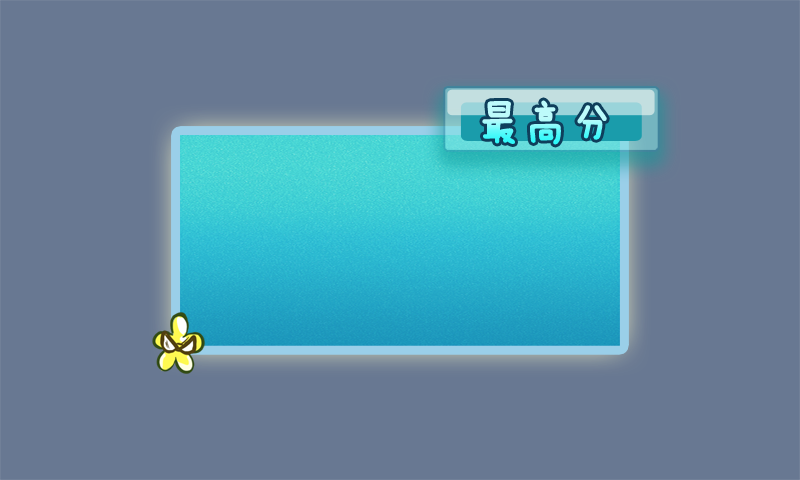
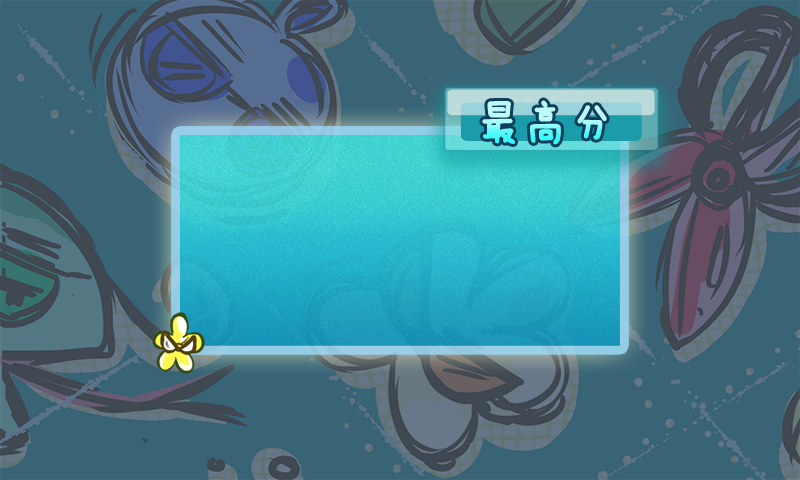
代码优化

diff --git a/src/com/example/newsnake/StartpageActivity.java b/src/com/example/newsnake/StartpageActivity.java
@@ -6,6 +6,7 @@ import org.andengine.engine.options.ScreenOrientation;
 import org.andengine.engine.options.resolutionpolicy.RatioResolutionPolicy;
 import org.andengine.entity.scene.Scene;
 import org.andengine.entity.scene.background.RepeatingSpriteBackground;
+import org.andengine.entity.scene.background.SpriteBackground;
 import org.andengine.entity.sprite.ButtonSprite;
 import org.andengine.entity.sprite.ButtonSprite.OnClickListener;
 import org.andengine.entity.sprite.Sprite;
@@ -14,6 +15,7 @@ import org.andengine.opengl.texture.TextureOptions;
 import org.andengine.opengl.texture.atlas.bitmap.BitmapTextureAtlas;
 import org.andengine.opengl.texture.atlas.bitmap.BitmapTextureAtlasTextureRegionFactory;
 import org.andengine.opengl.texture.atlas.bitmap.source.AssetBitmapTextureAtlasSource;
+import org.andengine.opengl.texture.region.TextureRegion;
 import org.andengine.opengl.texture.region.TiledTextureRegion;
 import org.andengine.ui.activity.SimpleBaseGameActivity;
 
@@ -23,14 +25,13 @@ import android.os.Bundle;
 import android.view.Menu;
 
 public class StartpageActivity extends SimpleBaseGameActivity {
-	private RepeatingSpriteBackground mBackground;
 	
 	
 	private BitmapTextureAtlas mTextureAtlas;
 	private BitmapTextureAtlas mStartAtlas;
-	private BitmapTextureAtlas mTopAtlas;
-	private BitmapTextureAtlas mInformationAtlas;
-	private BitmapTextureAtlas mSnakeAtlas;
+
+	
+	private TextureRegion mGrassBackground;
 	
 	private TiledTextureRegion mTop;
 	private TiledTextureRegion mStartpage;
@@ -38,7 +39,6 @@ public class StartpageActivity extends SimpleBaseGameActivity {
 	private TiledTextureRegion mInformation;
 	private TiledTextureRegion mSnake;
 	
-	private Scene scene;
 	
 	
 	private static final int CAMERA_WIDTH = 800;
@@ -53,27 +53,21 @@ public class StartpageActivity extends SimpleBaseGameActivity {
 
 	@Override
 	protected void onCreateResources() {
-		this.mBackground=new RepeatingSpriteBackground(CAMERA_WIDTH, CAMERA_HEIGHT, getTextureManager(), AssetBitmapTextureAtlasSource.create(getAssets(), "image/beginbackground.png"), getVertexBufferObjectManager());
 		
+		mTextureAtlas=new BitmapTextureAtlas(this.getTextureManager(), 1024, 512);
+		mStartAtlas=new BitmapTextureAtlas(getTextureManager(), 1024, 1024, TextureOptions.BILINEAR_PREMULTIPLYALPHA);
+
 		
-		mTextureAtlas=new BitmapTextureAtlas(getTextureManager(), 800, 480, TextureOptions.BILINEAR_PREMULTIPLYALPHA);
-		mStartAtlas=new BitmapTextureAtlas(getTextureManager(), 800, 480, TextureOptions.BILINEAR_PREMULTIPLYALPHA);
-		mTopAtlas=new BitmapTextureAtlas(getTextureManager(), 800, 480, TextureOptions.BILINEAR_PREMULTIPLYALPHA);
-		mInformationAtlas=new BitmapTextureAtlas(getTextureManager(), 800, 480, TextureOptions.BILINEAR_PREMULTIPLYALPHA);
-		mSnakeAtlas=new BitmapTextureAtlas(getTextureManager(), 800, 480, TextureOptions.BILINEAR_PREMULTIPLYALPHA);
-		
-		mStartpage=BitmapTextureAtlasTextureRegionFactory.createTiledFromAsset(mTextureAtlas, this, "image/startpage.png", 0, 0,1,1);
-		mTop=BitmapTextureAtlasTextureRegionFactory.createTiledFromAsset(mTopAtlas, this, "image/toplist.png", 0,0,3,1);		
-		mStart=BitmapTextureAtlasTextureRegionFactory.createTiledFromAsset(mStartAtlas, this, "image/begin.png", 0,0,3,1);
-		mInformation=BitmapTextureAtlasTextureRegionFactory.createTiledFromAsset(mInformationAtlas, this, "image/information.png", 0,0,3,1);
-		mSnake=BitmapTextureAtlasTextureRegionFactory.createTiledFromAsset(mSnakeAtlas, this, "image/snake.png", 0,0,1,1);
+		mGrassBackground = BitmapTextureAtlasTextureRegionFactory.createFromAsset(mTextureAtlas, this,"image/beginbackground.png", 0, 0);
+		mTop=BitmapTextureAtlasTextureRegionFactory.createTiledFromAsset(mStartAtlas, this, "image/toplist.png", 0,0,3,1);		
+		mStart=BitmapTextureAtlasTextureRegionFactory.createTiledFromAsset(mStartAtlas, this, "image/begin.png", 0,116,3,1);
+		mInformation=BitmapTextureAtlasTextureRegionFactory.createTiledFromAsset(mStartAtlas, this, "image/information.png", 0,248,3,1);
+		mSnake=BitmapTextureAtlasTextureRegionFactory.createTiledFromAsset(mStartAtlas, this, "image/snake.png", 0,359,1,1);
 		
 		
 		mTextureAtlas.load();
 		mStartAtlas.load();
-		mTopAtlas.load();
-		mInformationAtlas.load();
-		mSnakeAtlas.load();
+
 		// TODO Auto-generated method stub
 		
 	}
@@ -81,10 +75,10 @@ public class StartpageActivity extends SimpleBaseGameActivity {
 	@Override
 	protected Scene onCreateScene() {
 		this.mEngine.registerUpdateHandler(new FPSLogger());
-		scene=new Scene();
-		scene.setBackground(mBackground);
+		final Scene scene=new Scene();
+		final SpriteBackground mainSceneBackground = new SpriteBackground(new Sprite(0, 0, mGrassBackground,this.getVertexBufferObjectManager()));
+		scene.setBackground(mainSceneBackground);
 		
-		Sprite startSprite=new Sprite(0, 0, mStartpage, getVertexBufferObjectManager());
 		Sprite snakeSprite=new Sprite(75, 0, mSnake, getVertexBufferObjectManager());
 
 		ButtonSprite StartSprite=new ButtonSprite(300, 100, mStart, getVertexBufferObjectManager());
@@ -98,7 +92,6 @@ public class StartpageActivity extends SimpleBaseGameActivity {
 				Intent intent=new Intent();
 				intent.setClass(StartpageActivity.this, MainActivity.class);
 				startActivity(intent);
-				StartpageActivity.this.finish();
 			}
 		});
 		TopSprite.setOnClickListener(new OnClickListener() {
@@ -109,13 +102,11 @@ public class StartpageActivity extends SimpleBaseGameActivity {
 				Intent intent=new Intent();
 				intent.setClass(StartpageActivity.this, InformationPageActivity.class);
 				startActivity(intent);
-				StartpageActivity.this.finish();
 			}
 		});
 		scene.registerTouchArea(StartSprite);
 		scene.registerTouchArea(TopSprite);
 		
-		scene.attachChild(startSprite);
 		scene.attachChild(snakeSprite);
 		scene.attachChild(TopSprite);
 		scene.attachChild(StartSprite);

diff --git a/src/com/example/newsnake/InformationPageActivity.java b/src/com/example/newsnake/InformationPageActivity.java
@@ -10,6 +10,7 @@ import org.andengine.engine.options.ScreenOrientation;
 import org.andengine.engine.options.resolutionpolicy.RatioResolutionPolicy;
 import org.andengine.entity.scene.Scene;
 import org.andengine.entity.scene.background.RepeatingSpriteBackground;
+import org.andengine.entity.scene.background.SpriteBackground;
 import org.andengine.entity.sprite.ButtonSprite;
 import org.andengine.entity.sprite.Sprite;
 import org.andengine.entity.sprite.ButtonSprite.OnClickListener;
@@ -22,6 +23,7 @@ import org.andengine.opengl.texture.TextureOptions;
 import org.andengine.opengl.texture.atlas.bitmap.BitmapTextureAtlas;
 import org.andengine.opengl.texture.atlas.bitmap.BitmapTextureAtlasTextureRegionFactory;
 import org.andengine.opengl.texture.atlas.bitmap.source.AssetBitmapTextureAtlasSource;
+import org.andengine.opengl.texture.region.TextureRegion;
 import org.andengine.opengl.texture.region.TiledTextureRegion;
 import org.andengine.ui.activity.SimpleBaseGameActivity;
 
@@ -29,12 +31,11 @@ import android.content.Intent;
 import android.graphics.Color;
 
 public class InformationPageActivity extends SimpleBaseGameActivity {
-	private RepeatingSpriteBackground mBackground;
+	private TextureRegion mBackground;
 	
 	private BitmapTextureAtlas mTextureAtlas;
 	private BitmapTextureAtlas mButtonAtlas;
 	
-	private TiledTextureRegion mTop;
 	private TiledTextureRegion mButton;
 	
 	private Font mFont;
@@ -54,12 +55,11 @@ public class InformationPageActivity extends SimpleBaseGameActivity {
 
 	@Override
 	protected void onCreateResources() {
-		this.mBackground=new RepeatingSpriteBackground(CAMERA_WIDTH, CAMERA_HEIGHT, getTextureManager(), AssetBitmapTextureAtlasSource.create(getAssets(), "image/beginbackground.png"), getVertexBufferObjectManager());
 		
-		mTextureAtlas=new BitmapTextureAtlas(getTextureManager(), 800, 480, TextureOptions.BILINEAR_PREMULTIPLYALPHA);
-		mButtonAtlas=new BitmapTextureAtlas(getTextureManager(), CAMERA_WIDTH, CAMERA_HEIGHT,TextureOptions.BILINEAR_PREMULTIPLYALPHA);
+		mTextureAtlas=new BitmapTextureAtlas(getTextureManager(), 1024, 512, TextureOptions.BILINEAR_PREMULTIPLYALPHA);
+		mButtonAtlas=new BitmapTextureAtlas(getTextureManager(), 128, 128,TextureOptions.BILINEAR_PREMULTIPLYALPHA);
 		
-		mTop=BitmapTextureAtlasTextureRegionFactory.createTiledFromAsset(mTextureAtlas, this, "image/topgrade.png", 0,0,1,1);		
+		mBackground=BitmapTextureAtlasTextureRegionFactory.createFromAsset(mTextureAtlas, this, "image/topgrade.png",0,0);	
 		mButton=BitmapTextureAtlasTextureRegionFactory.createTiledFromAsset(mButtonAtlas, this, "image/back.png", 0, 0,1,1);
 		
 		mTextureAtlas.load();
@@ -79,8 +79,8 @@ public class InformationPageActivity extends SimpleBaseGameActivity {
 	protected Scene onCreateScene() {
 		this.mEngine.registerUpdateHandler(new FPSLogger());
 		scene=new Scene();
-		scene.setBackground(mBackground);
-		
+		final SpriteBackground mainSceneBackground = new SpriteBackground(new Sprite(0, 0, mBackground,this.getVertexBufferObjectManager()));
+		scene.setBackground(mainSceneBackground);
 		
 		int highestGrade = 0;
 		BufferedInputStream Bufferedinput;
@@ -101,23 +101,18 @@ public class InformationPageActivity extends SimpleBaseGameActivity {
 		endGrade.setPosition(endGradeX, endGradeY);
 		endGrade.setText("adsfdsafds");
 
-		Sprite topSprite=new Sprite(0, 0, mTop, getVertexBufferObjectManager());
 		
 		ButtonSprite BackSprite=new ButtonSprite(0, 380, mButton, getVertexBufferObjectManager());
 		BackSprite.setOnClickListener(new OnClickListener() {
 			
 			public void onClick(ButtonSprite arg0, float arg1, float arg2) {
 				// TODO Auto-generated method stub
-				Intent intent=new Intent();
-				intent.setClass(InformationPageActivity.this, StartpageActivity.class);
-				startActivity(intent);
 				InformationPageActivity.this.finish();
 			}
 		});
 		scene.registerTouchArea(BackSprite);
 		
-		
-		scene.attachChild(topSprite);
+
 		scene.attachChild(endGrade);
 		scene.attachChild(BackSprite);
 		// TODO Auto-generated method stub
